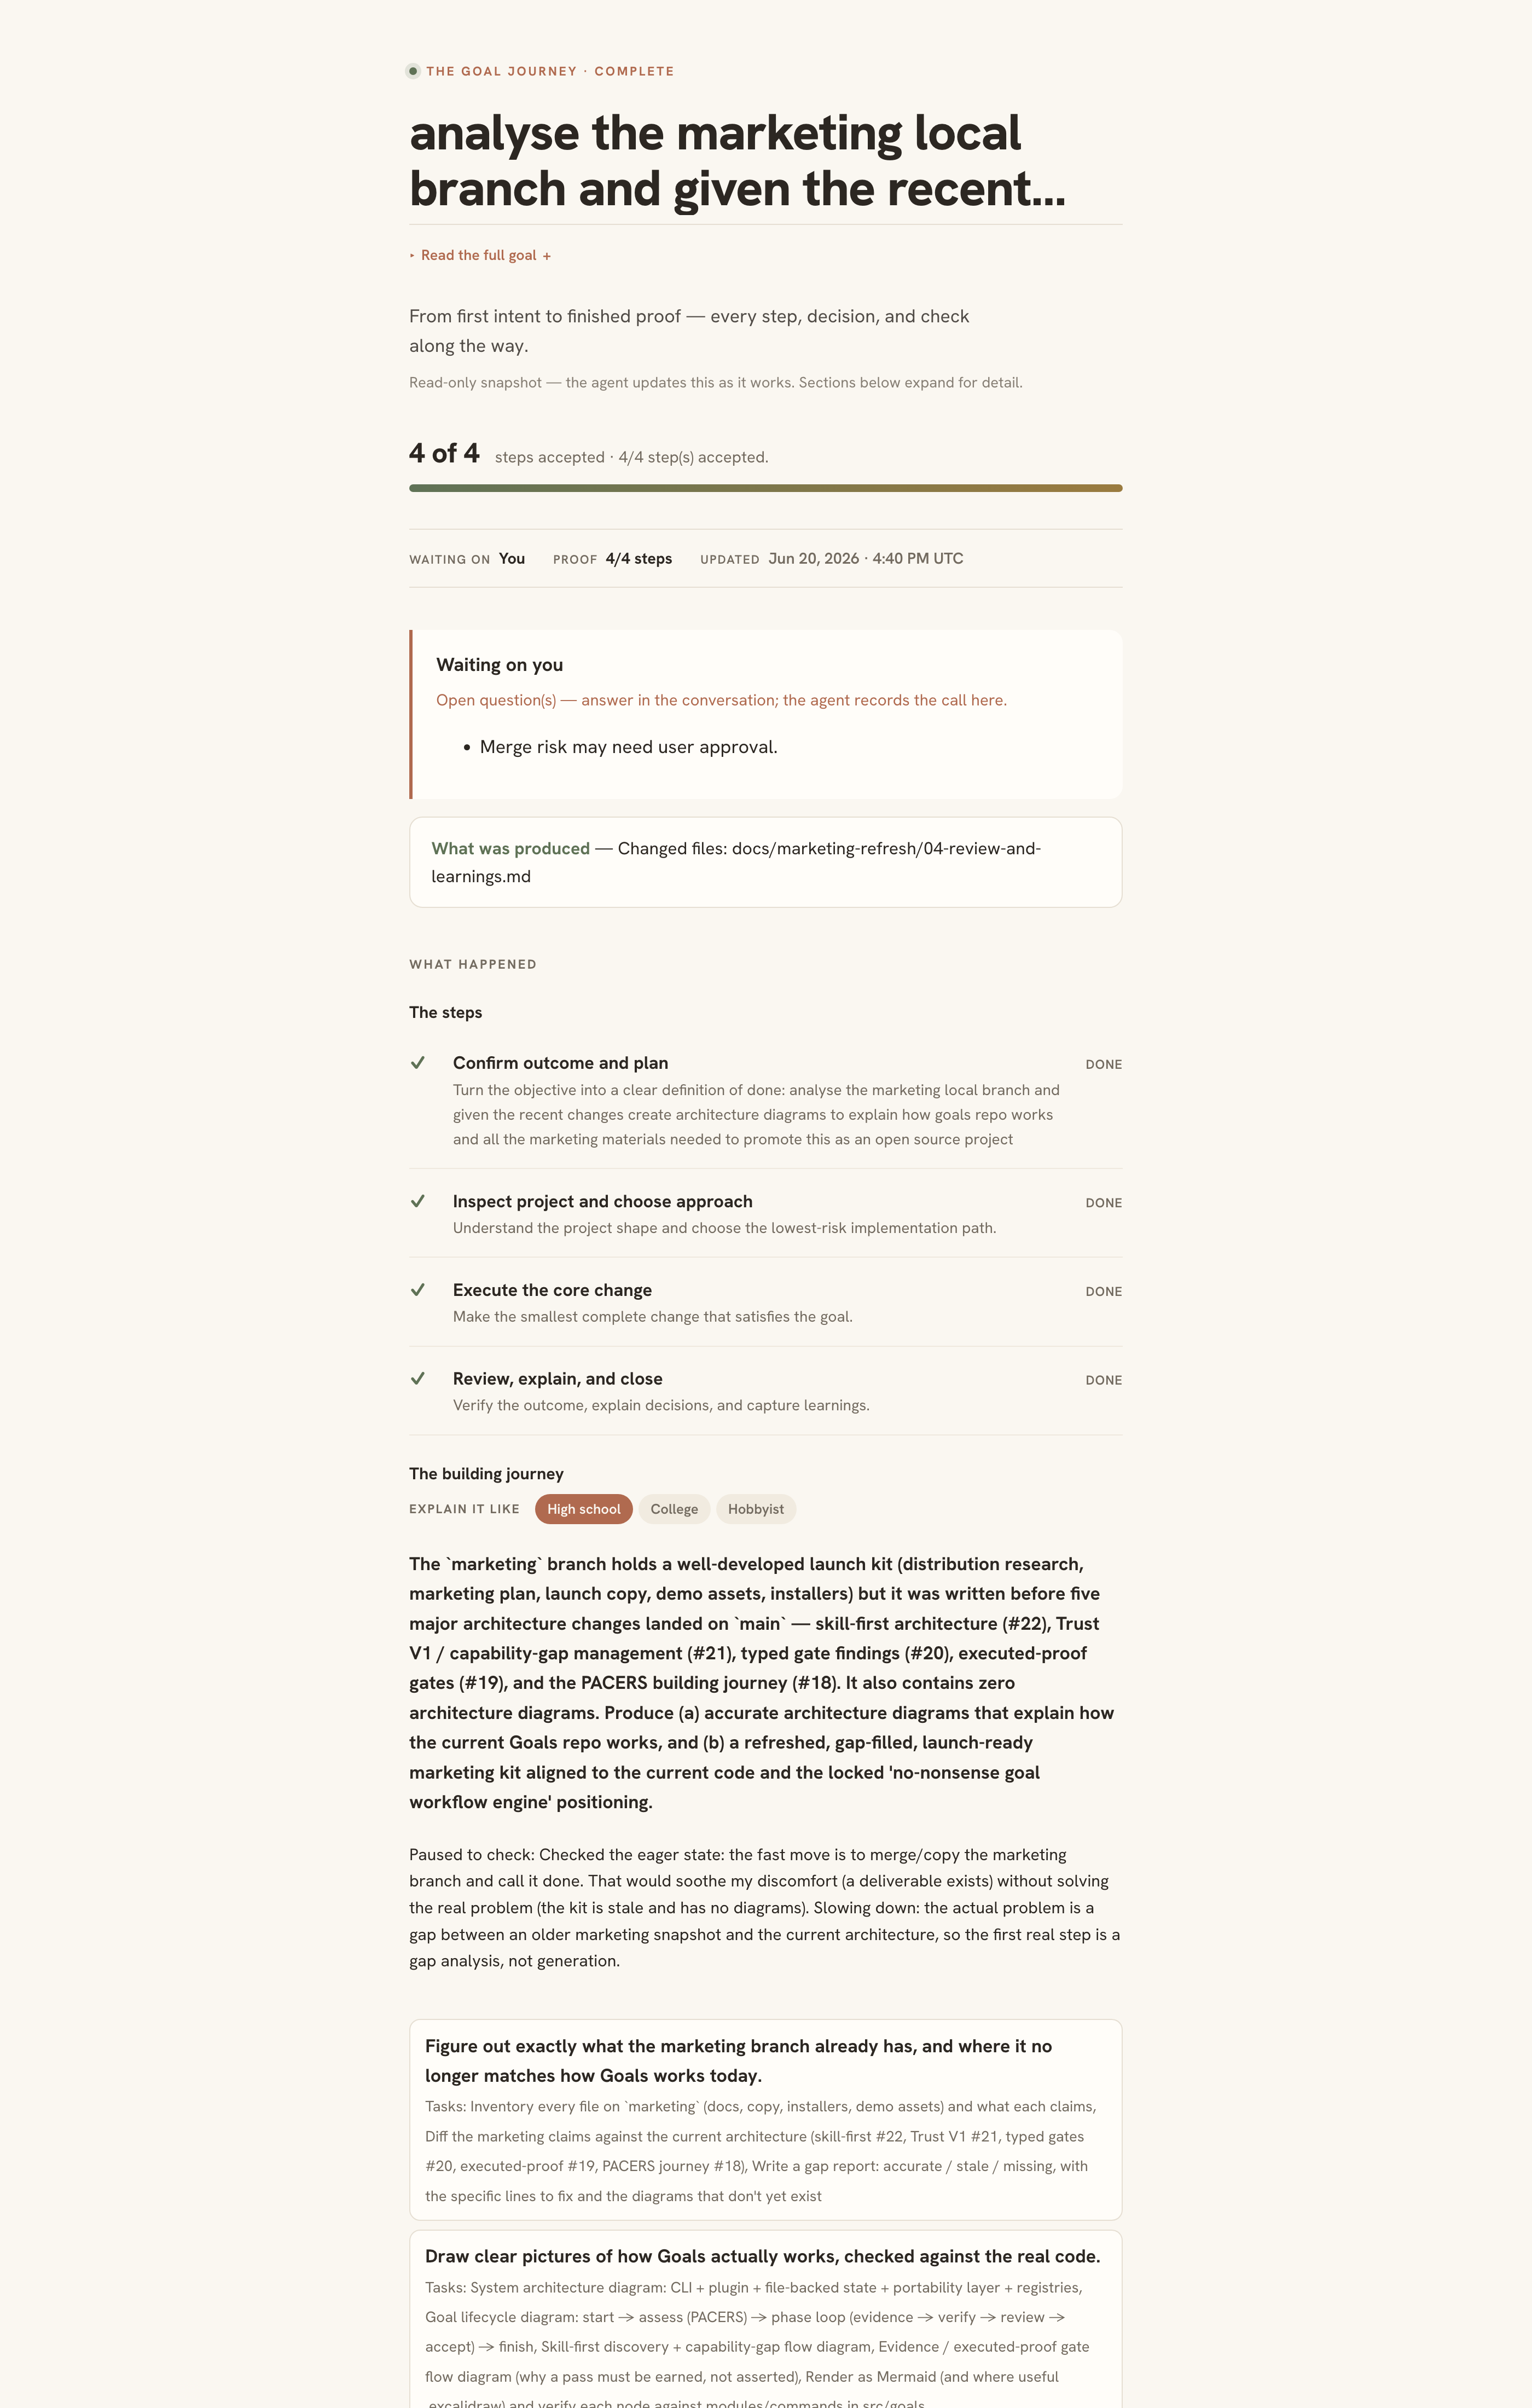
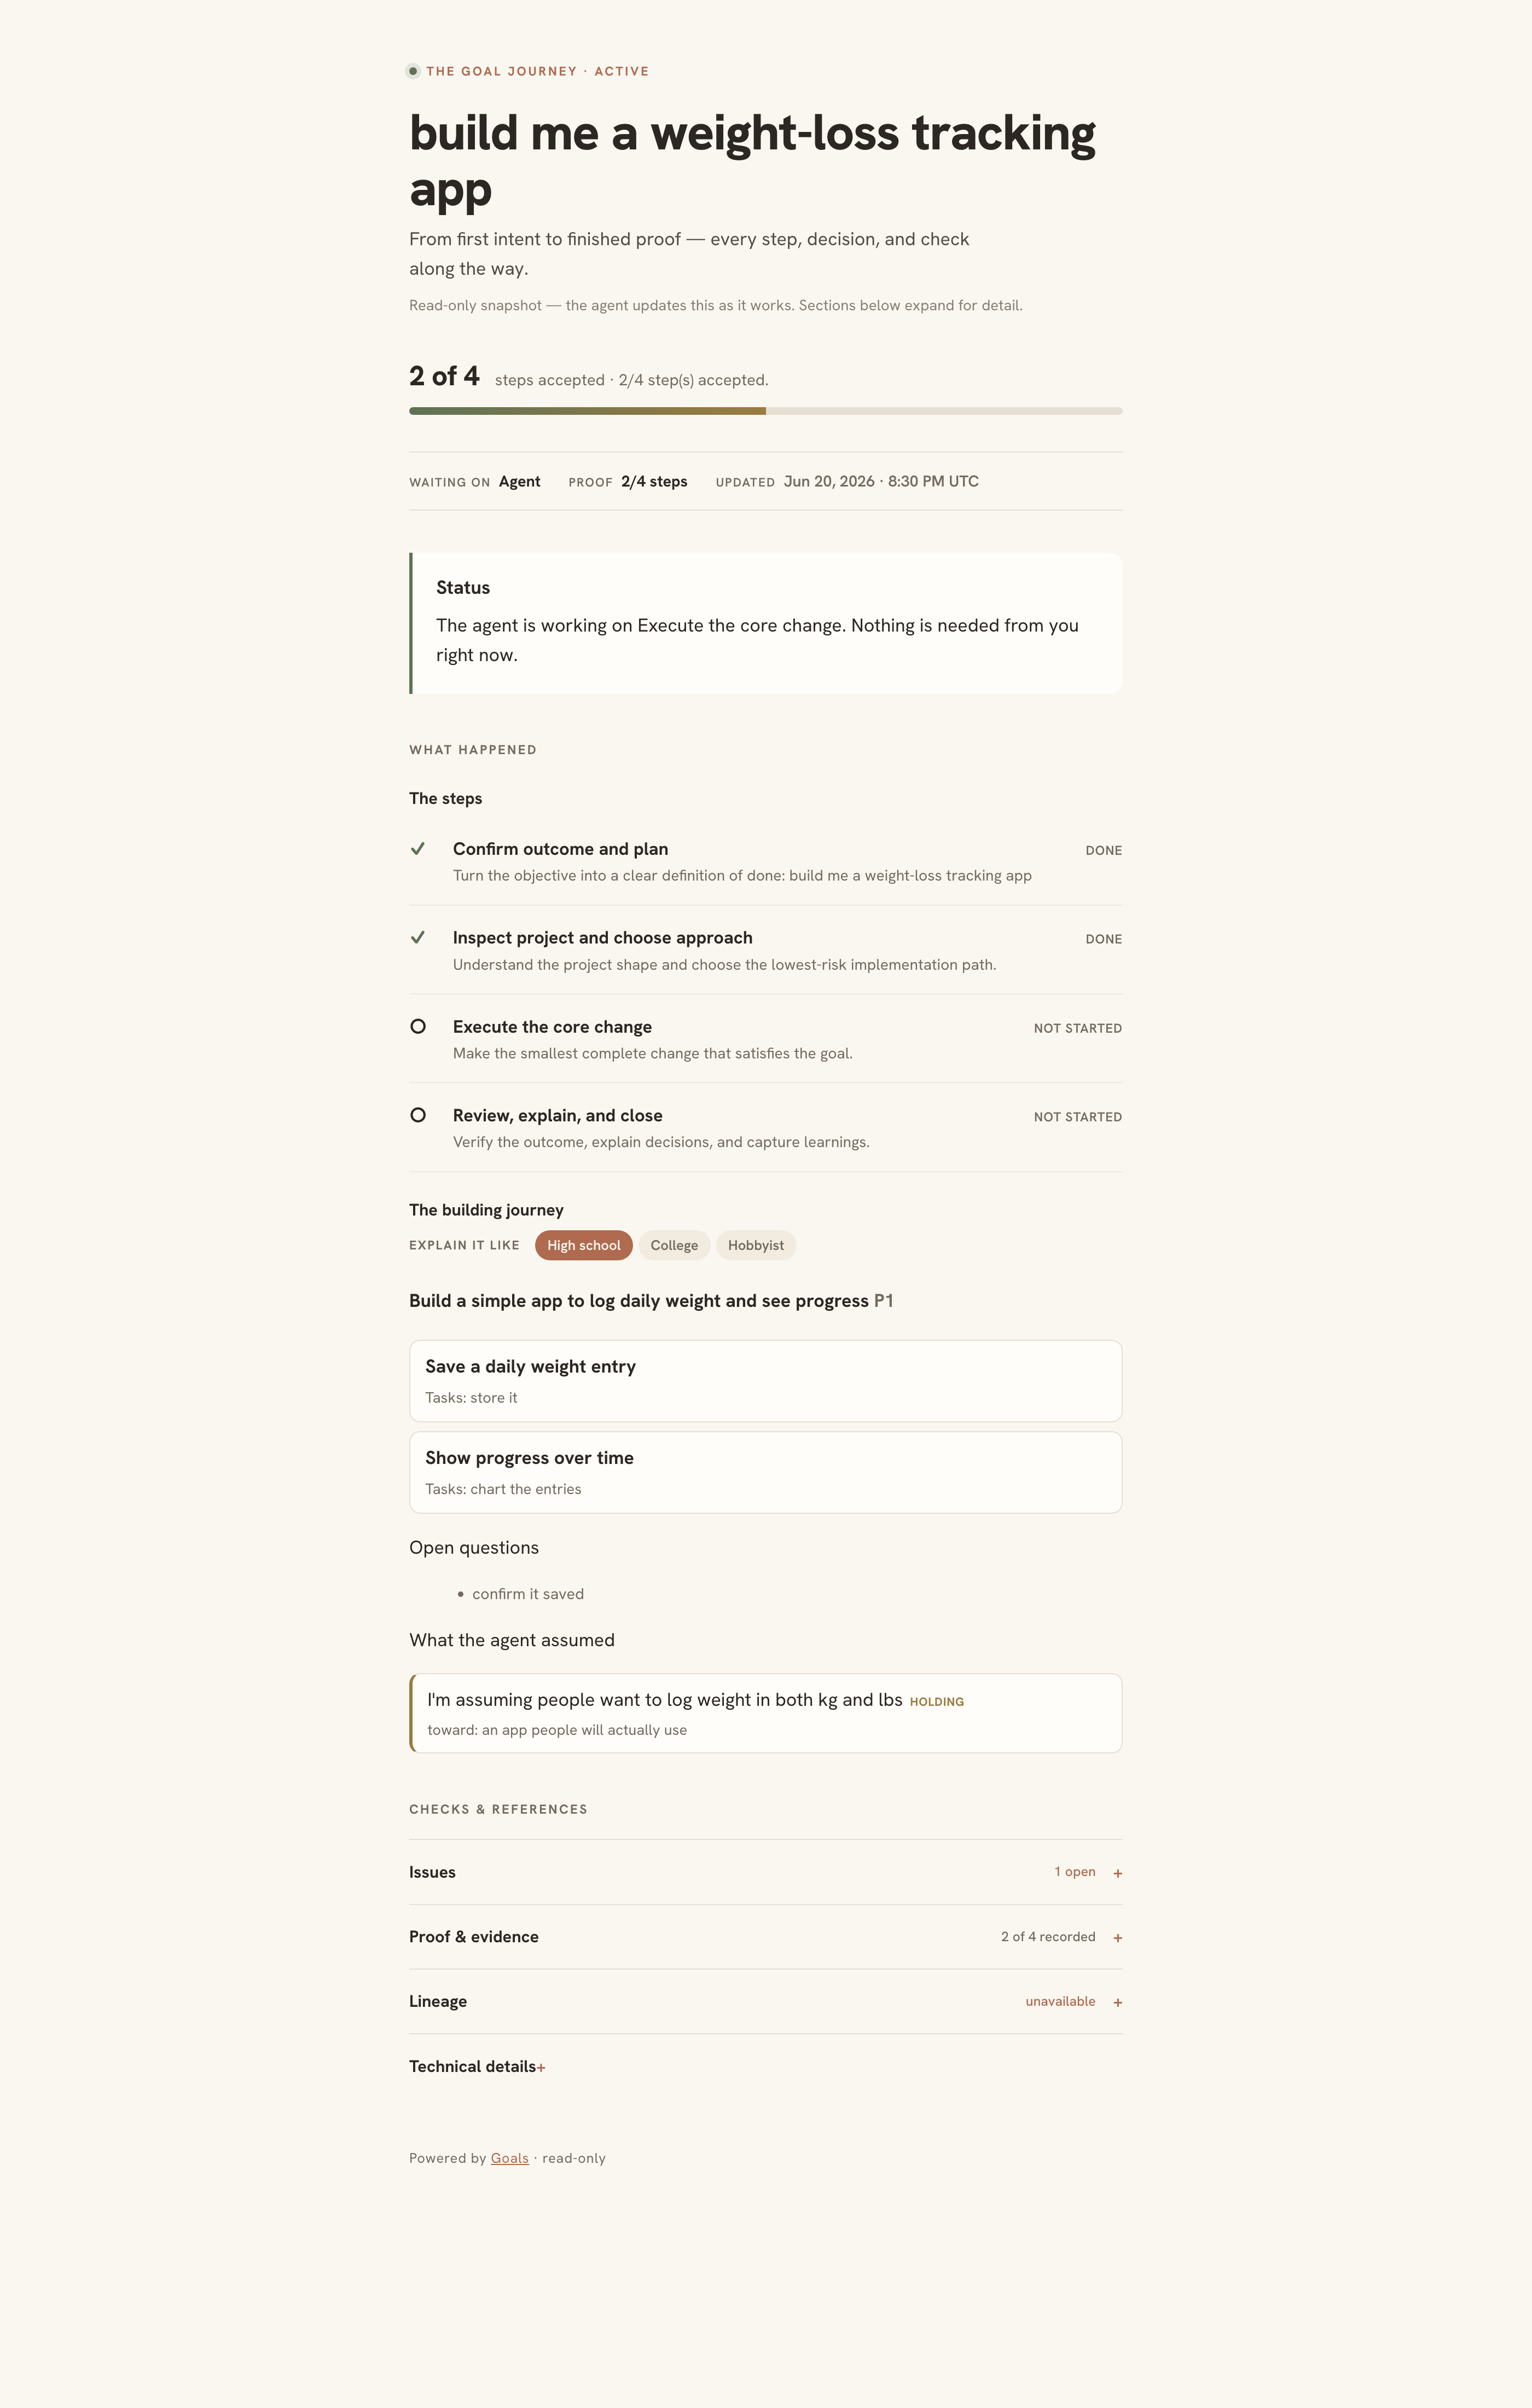
docs: clearer diagram wording + generic dashboard screenshot
- Diagram: "your AI" → "the AI agent"; make the verify step descriptive — it now
  says Goals runs the step's proof-checks for real (runnable tests of each "done"
  rule, not the agent's say-so).
- Dashboard screenshot: replace the branch-specific capture (the marketing goal)
  with a generic, relatable one — "build me a weight-loss tracking app" with 2/4
  steps accepted, a building journey, and proof — so master ships a neutral example.
- Sync the README ASCII loop and image alt text to match.

Claude-Session: https://claude.ai/code/session_015ahmYySMBqyf2J2eE1bJNd

diff --git a/README.md b/README.md
@@ -38,8 +38,8 @@ Anyone using AI to get real work done:
    you say the goal
          │
          ▼
-   Goals breaks it into clear steps  ──▶   your AI does the next step
-         ▲                                        │
+   Goals breaks it into clear steps  ──▶   the AI agent does the next step
+         ▲                                             │
          │            you say yes   ◀──── plain decision + proof it works
          └─────────  repeat until done — with a record of everything  ◀─┘
 ```
@@ -56,7 +56,7 @@ Here's the whole loop — each step in plain English, with the command behind it
 (click to enlarge):
 
 <p align="center">
-  <a href="docs/assets/lifecycle.png"><img src="docs/assets/lifecycle.png" alt="How Goals works, step by step: 1 say your goal (goals start), 2 Goals breaks it into steps and names assumptions, 3 your AI does the next step (goals next), 4 the checks must actually pass (goals phase verify), 5 step checked off with proof (goals phase accept), 6 finished with a full record (goals finish) — plus a dashboard you can read anytime (goals view)" width="520"></a>
+  <a href="docs/assets/lifecycle.png"><img src="docs/assets/lifecycle.png" alt="How Goals works, step by step: 1 say your goal (goals start), 2 Goals breaks it into steps and names assumptions, 3 the AI agent does the next step (goals next), 4 Goals runs the step's proof-checks for real (goals phase verify), 5 step checked off with proof (goals phase accept), 6 finished with a full record (goals finish) — plus a dashboard you can read anytime (goals view)" width="520"></a>
 </p>
 
 And you never lose the thread: a **dashboard anyone can read** shows status,